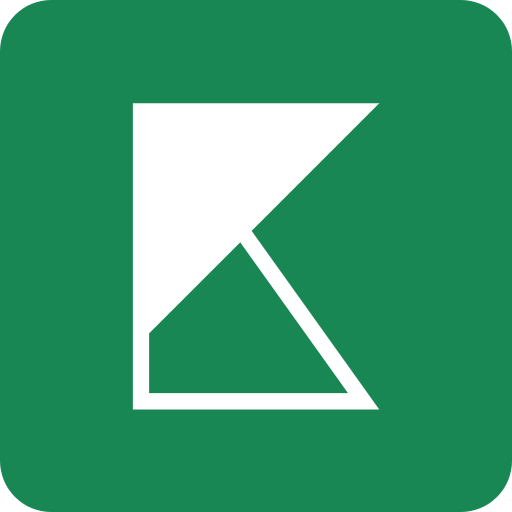
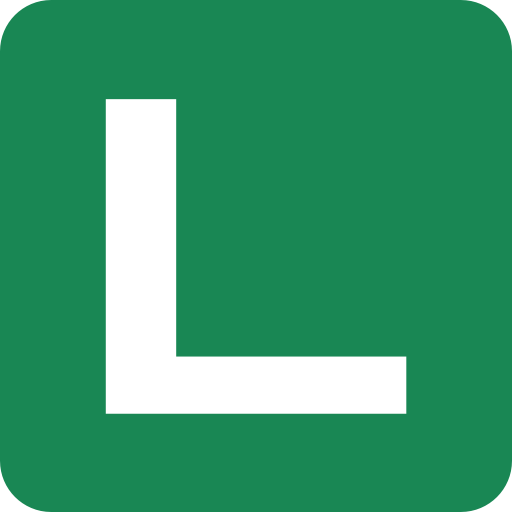
- WIP authentication framework - implemented log out everywhere - renamed app to LumiAsk - updated facicons

Changed region(s): [[0.1875, 0.1875, 0.8125, 0.8125]]

diff --git a/app/templates/macros.html b/app/templates/macros.html
@@ -52,8 +52,8 @@
     <nav class="navbar sticky-top navbar-expand-lg navbar-dark bg-dark">
         <div class="container-fluid">
             <a class='navbar-brand' href='{{ url_for('main.index') }}'>
-                <img src='{{ url_for('static', filename='apple-touch-icon.png') }}' width='32' height='32'
-                     class='d-inline-block align-top' alt=''>
+                <img src='{{ url_for('static', filename='apple-touch-icon.png') }}' width='36' height='36'
+                     class='d-inline-block' alt=''>
                 {{ config["APP_NAME"] }}
             </a>
             <button class="navbar-toggler my-1" type="button" data-bs-toggle="collapse"
@@ -77,10 +77,10 @@
                                 <a class="btn text-nowrap btn-success text-dark" href="{{ url_for('auth.logout') }}">
                                     Log Out</a>
                             {% else %}
-                                <a class="btn text-nowrap btn-success text-dark" href="{{ url_for('auth.login') }}">
+                                <a class="btn text-nowrap btn-outline-success" href="{{ url_for('auth.login') }}">
                                     Log In
                                 </a>
-                                <a class="btn text-nowrap btn-outline-success" href="{{ url_for('auth.signup') }}">
+                                <a class="btn text-nowrap btn-success" href="{{ url_for('auth.signup') }}">
                                     Sign Up
                                 </a>
                             {% endif %}

diff --git a/app/templates/auth/signup.html b/app/templates/auth/signup.html
@@ -7,7 +7,7 @@
         <div class="row mt-5 align-items-center justify-content-center">
             <div class="col-sm-8 col-md-6 col-lg-4 rounded p-3 shadow">
                 {{ render_form(form, button_style="success", floating_input_label=True) }}
-                <p class="mt-3 text-center text-muted small">(*) Leave password blank to always log in with links sent by email. You can set a password later.</p>
+                <p class="mt-3 text-center text-muted small">(*) Leave password blank to log in with links sent by email. You can set a password later.</p>
             </div>
         </div>
     </div>

diff --git a/app/models.py b/app/models.py
@@ -17,7 +17,11 @@ class User(UserMixin, db.Model):
     password_hash = db.Column(db.String(128))
     confirmed = db.Column(db.Boolean, default=False)
 
-    valid_server_key = db.Column(db.String(2 * _TOKEN_SERVER_KEY_NBYTES))
+    # length of str(unsigned 64-bit integer) = 20
+    # length of separator = 1
+    # base64 encoding of _TOKEN_SERVER_KEY_NBYTES bytes = ~1.3 * _TOKEN_SERVER_KEY_NBYTES, rounded to 1.5 for safety
+    remember_me_id = db.Column(db.String(21 + int(1.5 * _TOKEN_SERVER_KEY_NBYTES)))
+    valid_server_key = db.Column(db.String(int(1.5 * _TOKEN_SERVER_KEY_NBYTES)))
 
     def __repr__(self):
         return f"<User[{self.id}] {self.email}>"
@@ -32,6 +36,17 @@ class User(UserMixin, db.Model):
 
     def verify_password(self, password):
         return check_password_hash(self.password_hash, password)
+
+    def reset_remember_id(self):
+        self.remember_me_id = f"{self.id}/{secrets.token_urlsafe(nbytes=_TOKEN_SERVER_KEY_NBYTES)}"
+        db.session.add(self)
+        db.session.commit()
+
+    def get_id(self):
+        """For Flask-Login remember-me security, see https://flask-login.readthedocs.io/en/latest/#alternative-tokens"""
+        if self.remember_me_id is None:
+            self.reset_remember_id()
+        return self.remember_me_id
 
     def generate_token(self, action, client_key=None, expiration=_TOKEN_EXPIRATION):
         s = Serializer(current_app.config["SECRET_KEY"], expiration)
@@ -70,10 +85,7 @@ class User(UserMixin, db.Model):
             db.session.commit()
         return verified
 
-    def verify_token(self, token, action, client_key=None):
-        return self.verify_token_data(User.decode_token(token), action, client_key=client_key)
-
 
 @login_manager.user_loader
 def load_user(user_id):
-    return User.query.get(int(user_id))
+    return User.query.filter_by(remember_me_id=user_id).first()

diff --git a/app/auth/views.py b/app/auth/views.py
@@ -62,6 +62,14 @@ def logout():
     return redirect(url_for("main.index"))
 
 
+@auth.route("/logout-everywhere")
+@login_required
+def logout_all():
+    current_user.reset_remember_id()
+    flash("You have been logged out on all devices.", category="success")
+    return redirect(url_for("main.index"))
+
+
 @auth.route("/signup", methods=["GET", "POST"])
 def signup():
     if current_user.is_authenticated:

diff --git a/config.py b/config.py
@@ -4,8 +4,8 @@ basedir = os.path.abspath(os.path.dirname(__file__))
 
 
 class Config:
-    APP_VER = "20220117_1254"
-    APP_NAME = "UniAsk"
+    APP_VER = "20220120_1430"
+    APP_NAME = "LumiAsk"
 
     SECRET_KEY = os.environ.get("SECRET_KEY") or "zorVef-buwpof-9rowta"
 
